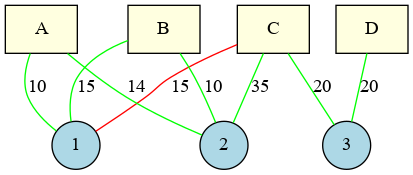
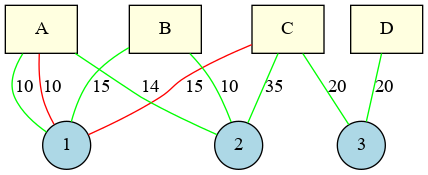
Versão final

diff --git a/src/examples.py b/src/examples.py
@@ -1,6 +1,6 @@
 from pandas import read_csv
 from analysis import attemps_to_solving, attemps_to_trying
-from graphs import AttempsMultiDiGraph, StudentsDiGraph, StudentsGraph
+from graphs import AttempsMultiGraph, StudentsDiGraph, StudentsGraph
 from networkx.drawing.nx_pydot import write_dot
 from networkx import write_gml
 from graphs import louvain_grouped_communities, filtering_parameter_analysis
@@ -23,7 +23,7 @@ if __name__ == "__main__":
     trying_df.to_csv(trying_filepath, decimal=',')
     print(trying_df)
 
-    graph_a = AttempsMultiDiGraph(attemps_df=attemps_df)
+    graph_a = AttempsMultiGraph(attemps_df=attemps_df)
     add_graphic_attrs(graph_a.graph)
     add_student_attrs(graph_a.graph, attemps_df['student_id'].unique())
     add_exercise_attrs(graph_a.graph, attemps_df['exercise_id'].unique())

diff --git a/src/graphs/attemps_multidigraph.py b/src/graphs/attemps_multidigraph.py
@@ -1,11 +1,11 @@
-from networkx import MultiDiGraph
+from networkx import MultiGraph
 from pandas import DataFrame
 
-class AttempsMultiDiGraph():
+class AttempsMultiGraph():
     def __init__(self, attemps_df:DataFrame) -> None:        
         self.__attemps_df = attemps_df
 
-        self.__graph = MultiDiGraph()
+        self.__graph = MultiGraph()
         self.__graph.name = 'A'
         
         self.__add_nodes()
@@ -31,5 +31,5 @@ class AttempsMultiDiGraph():
             )
 
     @property
-    def graph(self) -> MultiDiGraph:
+    def graph(self) -> MultiGraph:
         return self.__graph

diff --git a/src/experiment.py b/src/experiment.py
@@ -1,4 +1,4 @@
-from graphs import AttempsMultiDiGraph, StudentsGraph
+from graphs import AttempsMultiGraph, StudentsGraph
 from graphs import louvain_grouped_communities, filtering_parameter_analysis
 from graphs import add_community_attrs
 from analysis import attemps_to_solving, attemps_to_trying
@@ -182,7 +182,7 @@ if __name__ == '__main__':
 
         # Criando grafo A
 
-        graph_a = AttempsMultiDiGraph(attemps_df=attemps_df).graph
+        graph_a = AttempsMultiGraph(attemps_df=attemps_df).graph
 
         # Criando grafo S
 

diff --git a/src/graphs/__init__.py b/src/graphs/__init__.py
@@ -1,5 +1,5 @@
 from .students_digraph import StudentsDiGraph
 from .students_graph import StudentsGraph
-from .attemps_multidigraph import AttempsMultiDiGraph
+from .attemps_multigraph import AttempsMultiGraph
 from .graph_analysis import louvain_grouped_communities, filtering_parameter_analysis
 from .graph_attrs import add_graphic_attrs, add_community_attrs, add_student_attrs, add_exercise_attrs, add_edges_attrs

diff --git a/README.md b/README.md
@@ -49,6 +49,7 @@ python3 src/experiment.py
 ### Análise dos dados
 
 Algumas métricas de análise de dados podem ser calculadas com:
+
 ```
 python3 src/data_analysis.py
 ```
@@ -56,11 +57,13 @@ python3 src/data_analysis.py
 ### Examples
 
 Alguns exemplos podem ser vistos no diretório `data/examples/`. Os arquivos DOT e imagens podem ser gerados com:
+
 ```
 python3 src/examples.py
 ```
 
 Os arquivos DOT podem ser convertidos em imagens com:
+
 ```
 dot -Tpng [dot_filename].dot -o [image_filename].png
 ```
